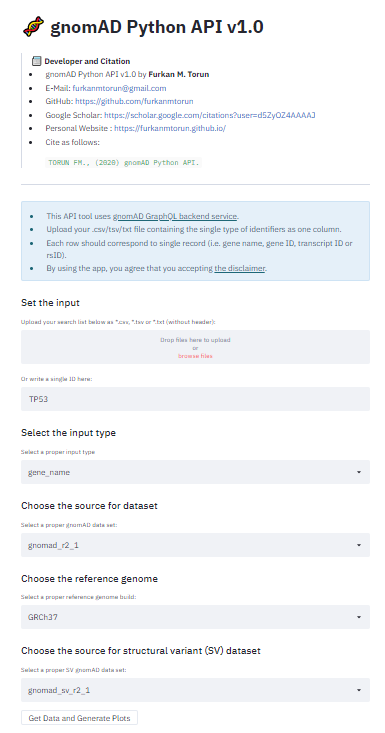
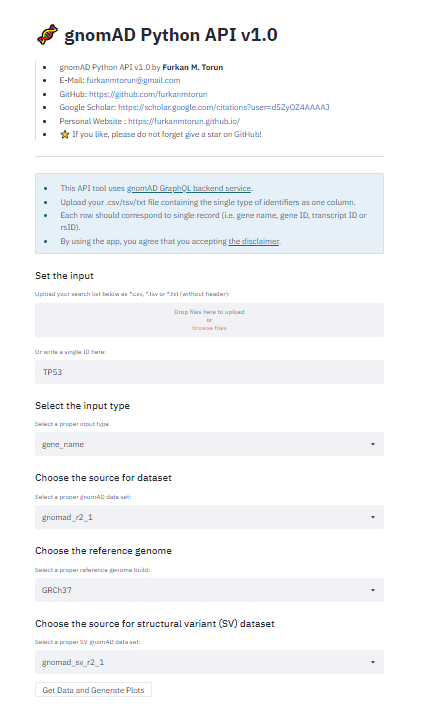
UPDATE by removing citation badges

Changed region(s): [[0.0312, 0.0, 0.9662, 0.4896], [0.0623, 0.4896, 0.6857, 1.0]]

diff --git a/gnomad_api_gui.py b/gnomad_api_gui.py
@@ -30,25 +30,21 @@ main_external_css = """
     </style>
 """
 version = "v1.0"
-citation = "TORUN FM., (2020) gnomAD Python API. "
 
 st.markdown(main_external_css, unsafe_allow_html=True)
 st.title("🧬 gnomAD Python API {}".format(version))
 
 st.markdown("""
         
-        > #### 📰 Developer and Citation
         > - gnomAD Python API {} by **Furkan M. Torun**
         > - E-Mail:               [furkanmtorun@gmail.com](mailto:furkanmtorun@gmail.com) 
         > - GitHub:               https://github.com/furkanmtorun  
         > - Google Scholar:       https://scholar.google.com/citations?user=d5ZyOZ4AAAAJ
         > - Personal Website :    https://furkanmtorun.github.io/
-        > - Cite as follows:
-        >
-        >    `{}`
+        > - ⭐ If you like it, please do not forget give a star on [GitHub](https://github.com/furkanmtorun/gnomad_python_api)! 
         
         ---
-    """.format(version, citation))
+    """.format(version))
 
 st.info(""" 
         - This API tool uses [gnomAD GraphQL backend service](https://gnomad.broadinstitute.org/api).

diff --git a/README.md b/README.md
@@ -12,7 +12,6 @@
   - [:hash: CLI | Example Usages](#hash-cli--example-usages)
   - [:hash: Disclaimer](#hash-disclaimer)
   - [:hash: Contributing & Feedback](#hash-contributing--feedback)
-  - [:hash: Citation](#hash-citation)
   - [:hash: Developer](#hash-developer)
   - [:hash: References](#hash-references)
 
@@ -20,6 +19,12 @@
 [gnomAD (The Genome Aggregation Database)](http://gnomad.broadinstitute.org/) [[1]](#hash-references) is aggregation of thousands of exomes and genomes human sequencing studies. Also, gnomAD consortium annotates the variants with allelic frequency in genomes and exomes.
 
 **Here**, this API with both CLI and GUI versions is able to search the genes or transcripts of your interest and retrieve variant data from the database via [gnomAD backend API](https://gnomad.broadinstitute.org/api) that based on GraphQL query language.
+
+---
+
+**⭐ If you like it, please do not forget give a star!**
+
+---
 
 ## :hash: Requirements and Installation
  - Create a directory and download the "**gnomad_api_cli.py**" and "**requirements.txt**" files or clone the repository via Git using following command:
@@ -132,8 +137,7 @@ I would be very happy to see any feedback or contributions to the project.
 
 For problems and enhancement requests, please `open an issue` above. 
 
-## :hash: Citation
-Upcoming !
+⭐ If you like it, please do not forget give a star!
 
 ## :hash: Developer
 **Furkan M. Torun ([@furkanmtorun](http://github.com/furkanmtorun)) |  [furkanmtorun@gmail.com](mailto:furkanmtorun@gmail.com) |
